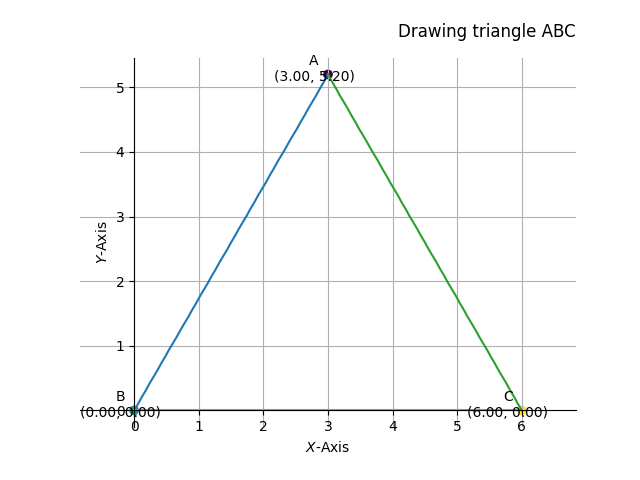
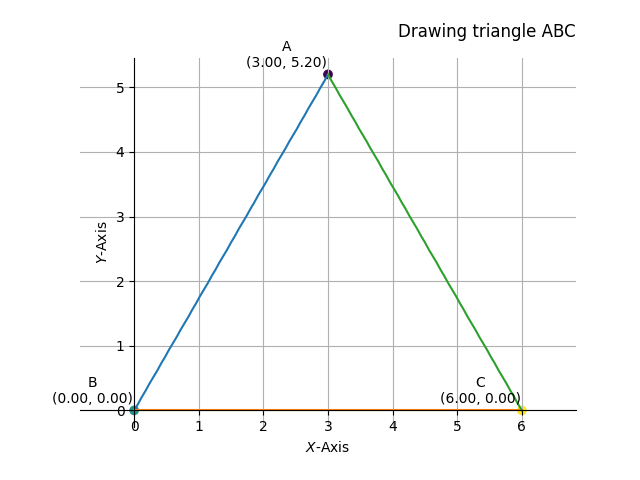
3.3.2.12

Changed region(s): [[0.375, 0.0938, 0.5625, 0.1875], [0.0625, 0.7812, 0.25, 0.875], [0.6875, 0.8125, 0.875, 0.875]]

diff --git a/3-3.2-12/codes/assignment3-3-2-12.py b/3-3.2-12/codes/assignment3-3-2-12.py
@@ -47,7 +47,7 @@ for i, txt in enumerate(vert_labels):
     plt.annotate(f'{txt}\n({tri_coords[0,i]:.2f}, {tri_coords[1,i]:.2f})',
                  (tri_coords[0,i], tri_coords[1,i]), # this is the point to label
                  textcoords="offset points", # how to position the text
-                 xytext=(-10,-5), # distance from text to points (x,y)
+                 xytext=(-30,5), # distance from text to points (x,y)
                  ha='center') # horizontal alignment can be left, right or center
 
 # use set_position
